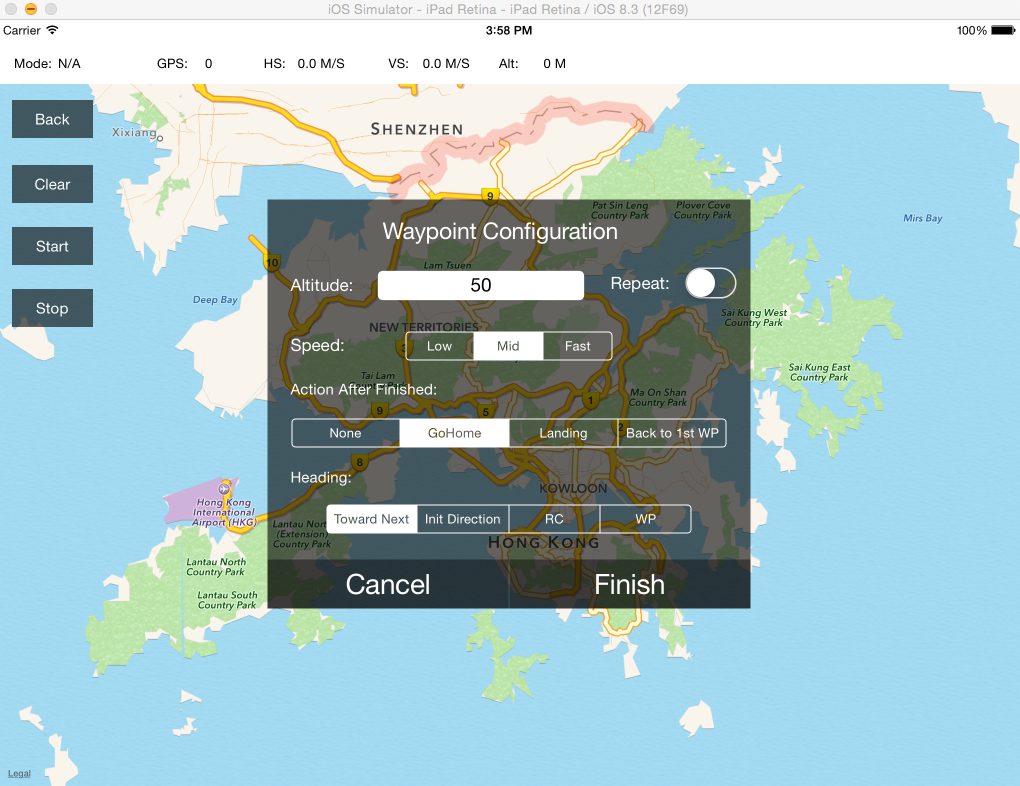
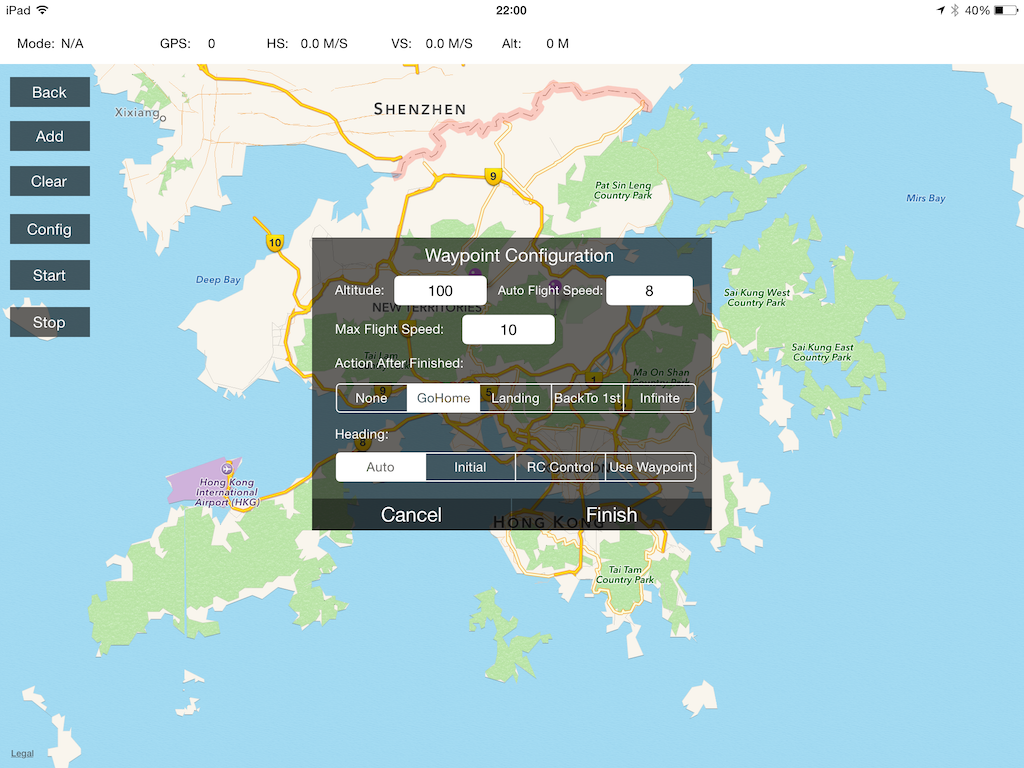
upgrade GSDemo to support iPhone6 and iPhone6+

diff --git a/en/iOS/GSDemo/GSDemo_en.md b/en/iOS/GSDemo/GSDemo_en.md
@@ -352,6 +352,10 @@ Once you are done, go to **DJIRootViewController.m** file and add the following 
     
 }
 
+- (BOOL)prefersStatusBarHidden {
+    return NO;
+}
+
 #pragma mark CLLocation Methods
 -(void) startUpdateLocation
 {
@@ -841,14 +845,14 @@ Now, if you press the **Stop Simulation** button on the Simulator Config, the ai
 As you seen, the project's code structure was simple and not robust. In order to develop it further in this tutorial, it will need to be refactored and we will need to add more UI elements. 
 
 ### 1. Add & Handle The New UIButtons
-First, we will create a new file named **DJIGSButtonController**, which will be subclass of **UIViewController**. Make sure the check box saying **Also create XIB file** is selected when creating the file. Then open the **DJIGSButtonController.xib** file and set its size to **Freeform** under the **Size** dropdown in the **Simulated Metrics** section. In the view section, change the width to **110** and height to **260**. Take a look at the changes made below:
+First, we will create a new file named **DJIGSButtonController**, which will be subclass of **UIViewController**. Make sure the check box saying **Also create XIB file** is selected when creating the file. Then open the **DJIGSButtonController.xib** file and set its size to **Freeform** under the **Size** dropdown in the **Simulated Metrics** section. In the view section, change the width to **100** and height to **288**. Take a look at the changes made below:
 
 ![freeform](../../images/iOS/GSDemo/freeform.png)
-![changeSize](../../images/iOS/GSDemo/changeSize.png)
+![changeSize](../../images/iOS/GSDemo/changeFrameSize.png)
 
 Next, drag eight UIButtons to the view and change their names to **Edit**, **Back**, **Clear**, **Focus Map**, **Start**, **Stop**, **Add** and **Config**. **Edit** will sit on top of **Back**, and **Focus Map** will sit on top of **Add**. Make sure to hide the **Back**, **Clear**, **Start**, **Stop**, **Add** and **Config** buttons.
 
-![gsButtons](../../images/iOS/GSDemo/gsButton.png)
+![gsButtons](../../images/iOS/GSDemo/gsButtonViews.png)
 
  Then add IBOutlets and IBActions for each of the eight buttons in the **DJIGSButtonViewController.h** file. Also, we will add an Enum named **DJIGSViewMode** with the two different modes the application could be in. Next, we add serveral delegate methods to be implemented by the delegate viewcontroller when IBAction methods for the buttons are trigger. Lastly, add the method **- (void)switchToMode:(DJIGSViewMode)mode inGSButtonVC:(DJIGSButtonViewController *)GSBtnVC;** to update the state of the buttons when the **DJIGSViewMode** changed. Take a look at the code below:
  
@@ -1232,7 +1236,7 @@ For this demo, we will assume that the parameters of each waypoint being added t
 
 Now, let's create a new ViewController that will let the user to set the parameters of waypoints. Go to Xcode’s project navigator, right click on the **GSDemo** folder, select **New File...**, set its subclass to **UIViewController**, named it **DJIWaypointConfigViewController**, and make sure "Also create XIB file" is selected. Next, open the **DJIWaypointConfigViewController.xib** file and implement the UI, as you see it below:
 
-![wayPointConfig](../../images/iOS/GSDemo/wayPointConfigVC.png)
+![wayPointConfig](../../images/iOS/GSDemo/wayPointConfigureVC.png)
 
 In the Waypoint Configuration ViewController, we use a UITextField to let the user set the **altitude** property of a **DJIWaypoint** object. Then, we use two UITextField to let the user set the **maxFlightSpeed** and **autoFlightSpeed** properties of **DJIWaypointMission**. Next, there are two UISegmentedControls to configure the **finishedAction** property and the **headingMode** property of a **DJIWaypointMission** object. 
 
@@ -1359,14 +1363,26 @@ Next, let's add some code to initialize the **waypointConfigVC** instance variab
     
     self.waypointConfigVC = [[DJIWaypointConfigViewController alloc] initWithNibName:@"DJIWaypointConfigViewController" bundle:[NSBundle mainBundle]];
     self.waypointConfigVC.view.alpha = 0;
-    self.waypointConfigVC.view.center = self.view.center;
+    
+    self.waypointConfigVC.view.autoresizingMask = UIViewAutoresizingFlexibleLeftMargin|UIViewAutoresizingFlexibleRightMargin|UIViewAutoresizingFlexibleTopMargin|UIViewAutoresizingFlexibleBottomMargin;
+    
+    CGFloat configVCOriginX = (CGRectGetWidth(self.view.frame) - CGRectGetWidth(self.waypointConfigVC.view.frame))/2;
+    CGFloat configVCOriginY = CGRectGetHeight(self.topBarView.frame) + CGRectGetMinY(self.topBarView.frame) + 8;
+    
+    [self.waypointConfigVC.view setFrame:CGRectMake(configVCOriginX, configVCOriginY, CGRectGetWidth(self.waypointConfigVC.view.frame), CGRectGetHeight(self.waypointConfigVC.view.frame))];
+    
+    if ([UIDevice currentDevice].userInterfaceIdiom == UIUserInterfaceIdiomPad) //Check if it's using iPad and center the config view
+    {
+        self.waypointConfigVC.view.center = self.view.center;
+    }
+
     self.waypointConfigVC.delegate = self;
     [self.view addSubview:self.waypointConfigVC.view];
     
 }
 ~~~
 
-In the code above, we set the **alpha** property of the **waypointConfigVC**'s view to 0 to initially hide the view. Then, center its location to the center of **DJIRootViewController**'s view.
+In the code above, we set the **alpha** property of the **waypointConfigVC**'s view to 0 to initially hide the view. Then, center its location to the center of **DJIRootViewController**'s view when it runs on iPad.
 
 Furthermore, implement the **DJIWaypointConfigViewControllerDelegate** methods, as shown below:
 
@@ -1422,7 +1438,7 @@ method with the following code to show the **waypointConfigVC**'s view when the 
 
 Once that's done, let's build and run the project. Try to show the **waypointConfigVC**'s view by pressing the **Edit** button and **Config** button:
 
-![waypointConfigView](../../images/iOS/GSDemo/waypointConfigureView.png)
+![waypointConfigView](../../images/iOS/GSDemo/waypointConfigView.png)
 
 ### 2. Handle The GroundStation Task
 
@@ -1705,7 +1721,7 @@ Next, test the waypoint feature by tapping wherever you'd like on the map view. 
 
 Once you press the **Config** button, the **Waypoint Configuration** view will appear. After you're satisfied with the changes, press the **Finish** button. The waypoint mission will start to upload and when it finishes, the mission will start to be processed. You will see the following animation when you do so:
 
-![flying](../../images/iOS/GSDemo/tryFly.gif)
+![flying](../../images/iOS/GSDemo/tryToConfig.gif)
 
 ![startMissionFailed](../../images/iOS/GSDemo/startMissionFailed.png)
 

diff --git a/zh-cn/iOS/GSDemo/GSDemo_ch.md b/zh-cn/iOS/GSDemo/GSDemo_ch.md
@@ -354,6 +354,10 @@ DJI PC 模拟器专为 SDK 开发者所设计。模拟器通过 UDP 广播的方
     
 }
 
+- (BOOL)prefersStatusBarHidden {
+    return NO;
+}
+
 #pragma mark CLLocation Methods
 -(void) startUpdateLocation
 {
@@ -846,11 +850,11 @@ DJI PC 模拟器专为 SDK 开发者所设计。模拟器通过 UDP 广播的方
 首先，我们新建一个的名为**DJIGSButtonController**的**UIViewController**的子类. 确保你在创建文件时勾选上 **Also create XIB file**. 然后打开 DJIGSButtonController.xib 文件，并在Simulated Metrics部分的**Size**选项中选择 **Freeform** .在View部分，调整宽度为 **110**， 高为 **260**. 请看下面的效果图:
 
 ![freeform](../../images/iOS/GSDemo/freeform.png)
-![changeSize](../../images/iOS/GSDemo/changeSize.png)
+![changeSize](../../images/iOS/GSDemo/changeFrameSize.png)
 
 接下来，拖动八个按钮到**DJIGSButtonViewController.xib**上，并将它们的名字改为 **Edit**, **Back**, **Clear**, **Focus Map**, **Start**, **Stop**, **Add** 和 **Config**. Edit覆盖在Back上面, Focus Map覆盖在Add上面. 并且确保 **Back**, **Clear**, **Start**, **Add** 和 **Config** 按钮是隐藏状态.
 
-![gsButtons](../../images/iOS/GSDemo/gsButtons.png)
+![gsButtons](../../images/iOS/GSDemo/gsButtonViews.png)
 
  然后在**DJIGSButtonViewController.h**文件里为八个按钮添加IBOutlets 和 IBActions. 同时，我们将加入一个名为 **DJIGSViewMode**的枚举值，用来记录app的两种工作模式(View和Edit). 接着，我们添加几个delegate方法，用于响应IBAction的方法调用. 最后，加入一个 **- (void)switchToMode:(DJIGSViewMode)mode inGSButtonVC:(DJIGSButtonViewController *)GSBtnVC;** 方法，当DJIGSViewMode的值改变时，更新多个按钮的状态. 请看下面的代码:
  
@@ -1232,7 +1236,7 @@ typedef NS_ENUM(NSUInteger, DJIWaypointMissionHeadingMode){
 
 现在，我们创建一个新的ViewController来让用户设置waypoint的参数. 来到Xcode的project navigator，右键点击 **GSDemo** 文件夹, 选择 **New File...**, 将它的子类设置为 **UIViewController**, 命名其为 "DJIWaypointConfigViewController", 然后确保 "Also create XIB file" 为已选状态. 接着，打开 **DJIWaypointConfigViewController.xib** 文件并实现UI, 如下所示:
 
-![wayPointConfig](../../images/iOS/GSDemo/wayPointConfig.png)
+![wayPointConfig](../../images/iOS/GSDemo/wayPointConfigureVC.png)
 
 在Waypoint Configuration ViewController里, 我们使用UITextField来让用户设置DJIWaypoint实例的**altitude**属性. 然后，用两个UITextField来让用户设置**DJIWaypointMission**的**maxFlightSpeed** 和 **autoFlightSpeed**属性. 接下来，有两个UISegmentedControl控件来设置**DJIWaypointMission**对象的 **finishedAction** 和 **headingMode** 属性. 
 
@@ -1359,14 +1363,25 @@ typedef NS_ENUM(NSUInteger, DJIWaypointMissionHeadingMode){
     
     self.waypointConfigVC = [[DJIWaypointConfigViewController alloc] initWithNibName:@"DJIWaypointConfigViewController" bundle:[NSBundle mainBundle]];
     self.waypointConfigVC.view.alpha = 0;
-    self.waypointConfigVC.view.center = self.view.center;
+    self.waypointConfigVC.view.autoresizingMask = UIViewAutoresizingFlexibleLeftMargin|UIViewAutoresizingFlexibleRightMargin|UIViewAutoresizingFlexibleTopMargin|UIViewAutoresizingFlexibleBottomMargin;
+    
+    CGFloat configVCOriginX = (CGRectGetWidth(self.view.frame) - CGRectGetWidth(self.waypointConfigVC.view.frame))/2;
+    CGFloat configVCOriginY = CGRectGetHeight(self.topBarView.frame) + CGRectGetMinY(self.topBarView.frame) + 8;
+    
+    [self.waypointConfigVC.view setFrame:CGRectMake(configVCOriginX, configVCOriginY, CGRectGetWidth(self.waypointConfigVC.view.frame), CGRectGetHeight(self.waypointConfigVC.view.frame))];
+    
+    if ([UIDevice currentDevice].userInterfaceIdiom == UIUserInterfaceIdiomPad) //Check if it's using iPad and center the config view
+    {
+        self.waypointConfigVC.view.center = self.view.center;
+    }
+    
     self.waypointConfigVC.delegate = self;
     [self.view addSubview:self.waypointConfigVC.view];
     
 }
 ~~~
 
-在以上代码中，我们将**waypointConfigVC**的view的 **alpha** 属性设置为零，来隐藏该view. 接下来，将它的位置设置为 **DJIRootViewController**的view的中心.
+在以上代码中，我们将**waypointConfigVC**的view的 **alpha** 属性设置为零，来隐藏该view. 接下来，当在iPad上运行app时，将它的位置设置为 **DJIRootViewController**的view的中心.
 
 更进一步的，实现 **DJIWaypointConfigViewControllerDelegate** 的两个方法, 如下所示:
 
@@ -1705,7 +1720,7 @@ BOOL CLLocationCoordinate2DIsValid(CLLocationCoordinate2D coord);
 
 你一旦按下 **Config** 按钮， **Waypoint Configuration** 视图就会出现. 当你做完适当的设置操作后，按下 **Finish** 按钮. 航点任务会开始上传并且在上传结束时，任务会被处理. 这时你会看到以下动画:
 
-![flying](../../images/iOS/GSDemo/tryFly.gif)
+![flying](../../images/iOS/GSDemo/tryToConfig.gif)
 
 ![startMissionFailed](../../images/iOS/GSDemo/startMissionFailed.png)
 
